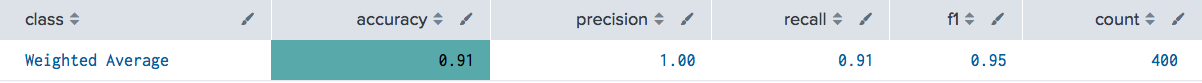
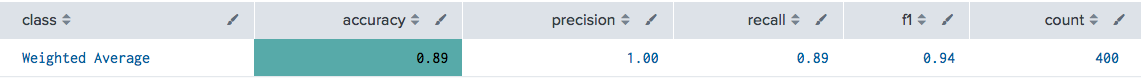
update blog and results

diff --git a/README.md b/README.md
@@ -3,7 +3,7 @@
 
 ##### Author: Nathan Worsham
 ##### Created for MSDS692 Data Science Practicum II at Regis University, 2018
-##### [YouTube Presentation](https://www.youtube.com/watch?v=hXnPGzBn0zQ)
+##### [YouTube Presentation](https://www.youtube.com/watch?v=HNqZie5o4Z8)
 
 In the dawn of spam filtering there was a standard juxtaposition of ham versus spam, with "ham" meaning good email and "spam" meaning unwanted email. This categorization however, roles up malicious and junk emails together under the "spam" umbrella. Though it is a different branch of spam email, a more malicious sort that often looks like the real thing is called "phishing" or sometimes "spear phishing" when it is extremely targeted.  Phishing is when an attacker or bad actor (note these are fancy security euphemisms for evil) uses an email message in attempt to trick a user to reveal any sort of information--including a username and password--or to get the user to do an action on the actor’s behalf--like wire them money or send them employee W2s, often with links to a fake website that is masquerading to look like it is legitimate (Moramarco, n.d.). Where I work at we use a product called KnowBe4 (https://www.knowbe4.com/) which is primarily used for security awareness training (where we phish our own employees) but it also provides our employees with an option in their email to report something they think is a possibly a phishing email. The problem that happens however, is that often employees don't necessarily understand the difference and will report emails that are simply regular spam emails or emails that the employee is part of a mailing list and not someone trying to scam them.  This causes a lot of noise and requires a security resource to look over the email and decide if it should either be ignored or investigated further.
 
@@ -195,11 +195,11 @@ I also tried adding the `VotingClassifier` algorithm, however this algorithm tak
 
 ![vote](PROJECT_FILES/IMG/vote.png)
 
-One unsettling result that happened was after doing my 80/20 split in Splunk, training my models, and then pitting them against the 20 percent test set, it kept doing perfect predictions on the 20 percent test set.
+One unsettling result that happened was after doing my 80/20 split in Splunk, training my models, and then pitting them against the 20 percent test set, the prediction accuraccy went down considerably to nearly 75%.
 
-![splunk_perfect](PROJECT_FILES/IMG/splunk_perfect.png)
+![splunk_not_perfect](PROJECT_FILES/IMG/splunk_not_perfect.png)
 
-I repeated this exercise several times with different seeds and still received the same results. Though I am not 100% sure what is going on here, one thing I do know is that MLTK is really an abstraction layer to Python, therefore there are going to be some changes and settings going on under the hood that do not exactly match what I was doing in my notebooks. 
+Though I am not 100% sure what is going on here, one thing I do know is that MLTK is really an abstraction layer to Python, therefore there are going to be some changes and settings going on under the hood that do not exactly match what I was doing in my notebooks. 
 
 However, as a sanity check, I took 400 of the ignore emails that the models had not seen--since I had a large stash of those lying around. 
 
@@ -211,10 +211,10 @@ It was interesting doing a comparison of how the Python workflow compared to tha
 
 ## Conclusion
 
-I found that combining text and non-text features provided a better overall model with this data set. Modeled itself after the workflow of a SOC analyst, taking into account all aspects of an email in question. I was pleased with the performance of using machine learning against this problem, with over 90% accuracy and good false-negative response. I feel like this model can start providing a benefit right away in production. I was equally pleased with the experience of moving the models into Splunk. As mentioned, I can then take advantage of Splunk's pipeline and sharing the "search" with others who are not familiar with Machine Learning or even Python might be more inclined to understand what is going on or at least peak their interest.
+I found that combining text and non-text features provided a better overall model with this data set. Modeled itself after the workflow of a SOC analyst, taking into account all aspects of an email in question. I was pleased with the performance of using machine learning against this problem, with over 90% accuracy and good false-negative response. I feel like this model can start providing a benefit right away in production. I was pleased with the experience of moving the models into Splunk but likely will require pushing the limits further to get results closer to what Python provided. As mentioned, I can then take advantage of Splunk's pipeline and sharing the "search" with others who are not familiar with Machine Learning or even Python might be more inclined to understand what is going on or at least peak their interest.
 
 ## Future Work
-As more data comes in over time, I will want to continue to improve the model and provide a way for our SOC to keep on training the model. This could probably be accomplished by appending to a lookup the data source that for example was classified incorrectly--maybe a Splunk "workflow action" will be the way to go. 
+I will want to keep working on getting the Splunk model's results to match closer to the Python's results. Also, as more data comes in over time, I will want to continue to improve the model results as well provide a way for our SOC to keep on training the model. This could probably be accomplished by appending to a lookup the data source that for example was classified incorrectly--maybe a Splunk "workflow action" will be the way to go. 
 
 I feel there is room to bring in further features into the model. I did not deal with multi-valued fields in this iteration as the [SA-mailparser_plus](https://splunkbase.splunk.com/app/4129/) app I created as an example will return a multivalued field with all of the URL lengths. Though more features don't necessarily mean a better model, but in this case I think it could help add to the totality of lenses with which to look through at the emails.
 
